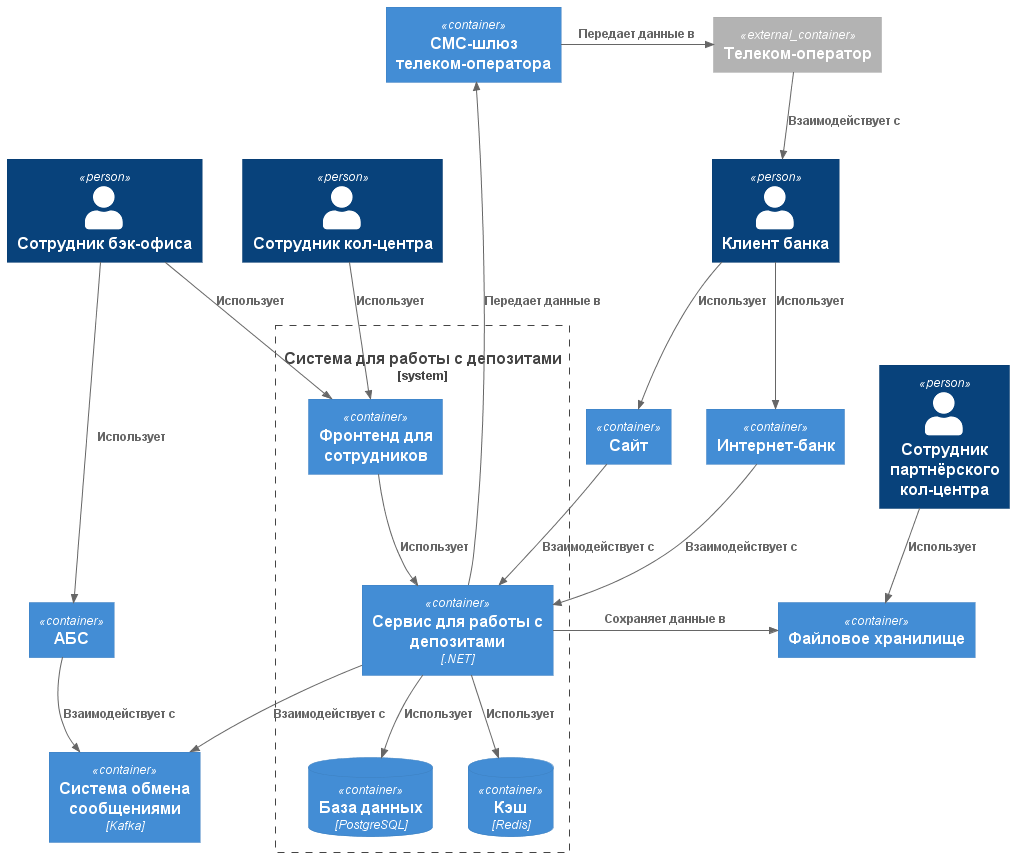
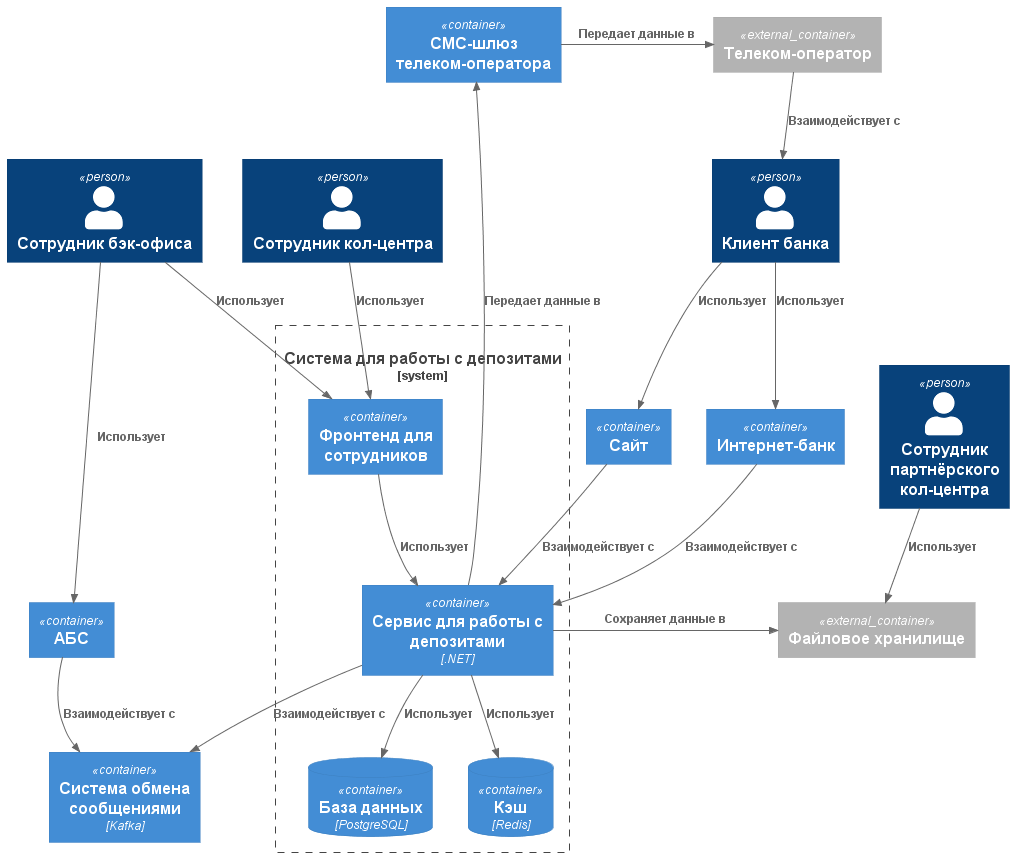
Доработка задания 4

Changed region(s): [[0.7643, 0.6978, 0.9783, 0.7888]]

diff --git a/Task4/README.md b/Task4/README.md
@@ -14,6 +14,10 @@
 | :-: | :- |
 | +R1 | Кол-центр партнера работает во внешней информационной системе |
 | +R2 | Единственный вариант передачи ставок - через файлы |
+| +R3 | Система должна обеспечивать 99.5% времени доступности файлового хранилища |
+| +R4 | Передача файла со ставками должна быть выполнена не более чем за 5 минут |
+| +R5 | Все файлы должны передаваться по защищенному каналу (SFTP/HTTPS) с шифрованием в пути |
+| +R6 | Должен быть механизм повторной отправки файла при ошибке передачи (не менее 3 попыток) |
 
 ### <a name="_qmphm5d6rvi3"></a>**Решение**
 
@@ -25,15 +29,40 @@
 
 ![Диаграмма контейнеров](Containers.png)
 
-За основу взят предыдущий вариант архитектуры.
+За основу взят предыдущий вариант архитектуры. Данное решение выбрано из-за простоты реализации.
 
-Данное решение выбрано из-за простоты реализации.
-После расчета ставок результирующий файл записывается в файловый архив.
+Обоснование:
+1. Высокая надежность.
+2. Встроенные механизмы безопасности.
+3. Легко масштабируется.
+4. Автоматическое резервное копирование.
+
+#### Файловое хранилище
+
+**Тип хранилища:** Amazon S3 (или любое совместимое объектное хранилище)
+
+**Характеристики:**
+- **Форматы файлов:** CSV или XML (требует согласование с партнером)
+- **Срок хранения:** 90 дней (далее архивирование)
+- **Шифрование:** Включено (SSE-S3 или SSE-KMS)
+- **Доступ:** SFTP gateway или HTTPS REST API
+
+#### Процесс передачи ставок
+
+1. Система расчета ставок генерирует файл с результатами
+2. Файл записывается в S3 хранилище
+3. Отправляется уведомление партнеру (например, email) со ссылкой на загрузку
+4. Партнер может скачать файл через веб-интерфейс или SFTP
+5. При ошибке передачи - автоматический повтор через 15 минут (max 3 попытки)
 
 ### <a name="_bjrr7veeh80c"></a>**Альтернативы**
 
-Разработать клиент для получения информации оператором партнерского кол-центра (по аналогии с собственным кол-центром).
+| Альтернатива | Описание | Преимущества | Недостатки |
+| :- | :- | :- | :- |
+| Прямой API | Разработать REST API для получения информации оператором партнерского кол-центра (по аналогии с собственным кол-центром) | Реал-тайм передача данных; лучше масштабируемость | Требует дополнительной разработки и поддержки; выше сложность интеграции для партнера |
+| FTP/SFTP сервер | Организовать собственный FTP/SFTP сервер для передачи файлов | Полный контроль; широкая поддержка клиентами | Требует управления сервером; сложнее масштабировать; снижение безопасности |
 
 **Недостатки, ограничения, риски**
 
-- Дополнительная точка взаимодействия с внешним контуром (снижение безопасности)
+- Зависимость от облачного провайдера
+- Дополнительные затраты
